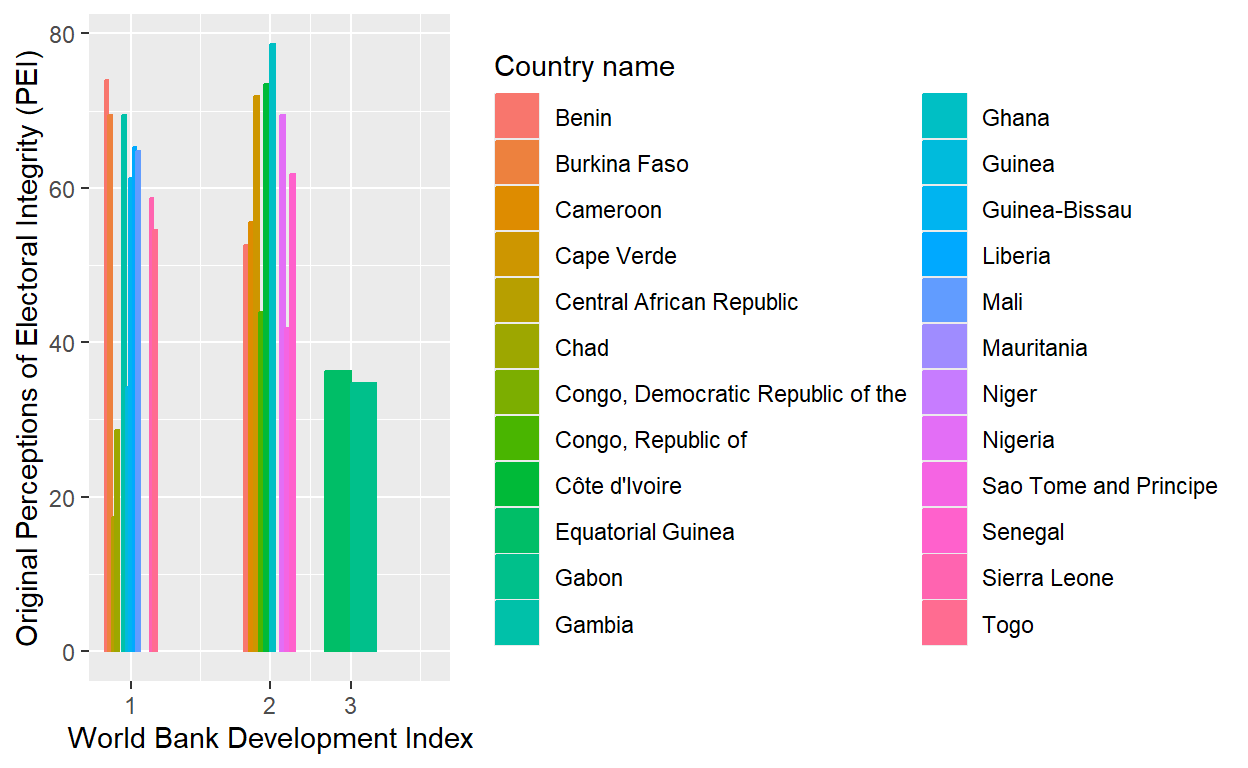
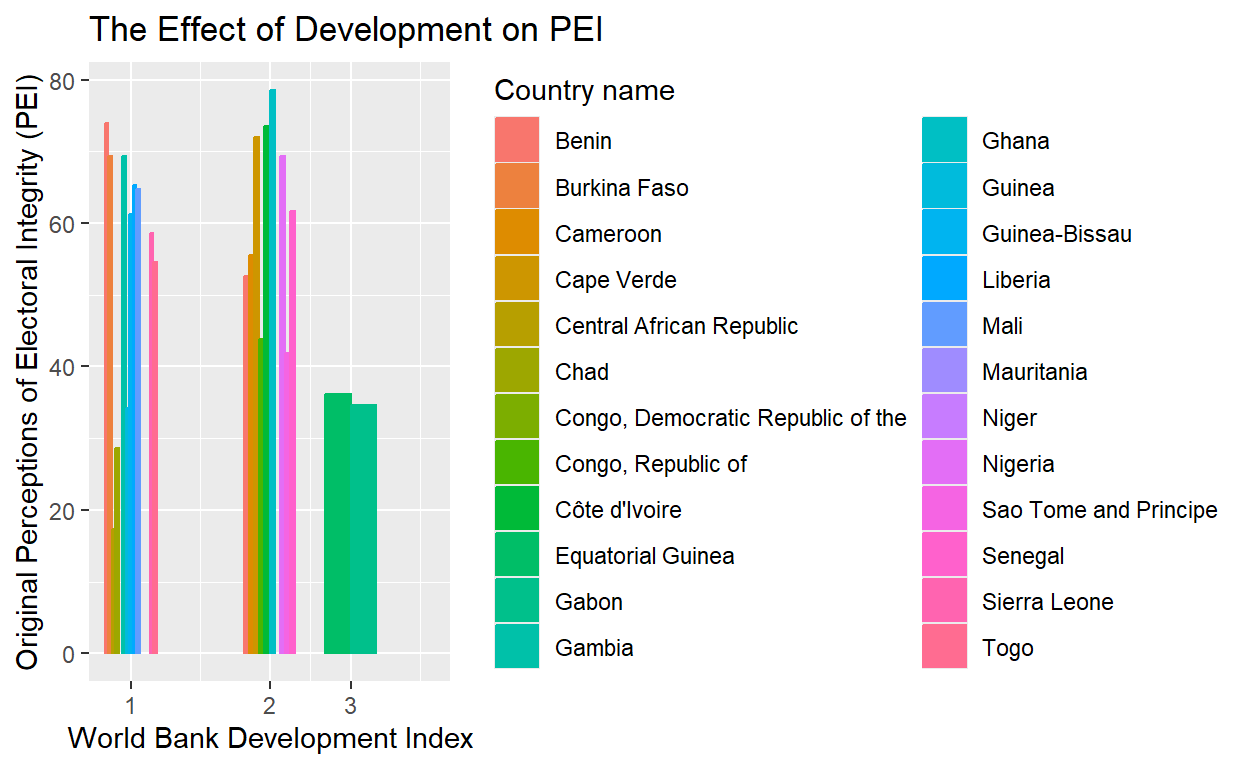
ok

diff --git a/index.html b/index.html
@@ -116,7 +116,7 @@ code span.wa { color: #5e5e5e; font-style: italic; } /* Warning */
   <!--/radix_placeholder_rmarkdown_metadata-->
   
   <script type="text/json" id="radix-resource-manifest">
-  {"type":"character","attributes":{},"value":["Data.dta","dataverse_files.zip","final project data.zip","index_files/figure-html5/unnamed-chunk-3-1.png"]}
+  {"type":"character","attributes":{},"value":["Data.dta","dataverse_files.zip","final project data.zip","index_files/anchor-4.2.2/anchor.min.js","index_files/bowser-1.9.3/bowser.min.js","index_files/distill-2.2.21/template.v2.js","index_files/figure-html5/unnamed-chunk-3-1.png","index_files/header-attrs-2.30/header-attrs.js","index_files/jquery-3.6.0/jquery-3.6.0.js","index_files/jquery-3.6.0/jquery-3.6.0.min.js","index_files/jquery-3.6.0/jquery-3.6.0.min.map","index_files/popper-2.6.0/popper.min.js","index_files/tippy-6.2.7/tippy-bundle.umd.min.js","index_files/tippy-6.2.7/tippy-light-border.css","index_files/tippy-6.2.7/tippy.css","index_files/tippy-6.2.7/tippy.umd.min.js","index_files/webcomponents-2.0.0/webcomponents.js"]}
   </script>
   <!--radix_placeholder_navigation_in_header-->
   <!--/radix_placeholder_navigation_in_header-->
@@ -1591,7 +1591,8 @@ code span.wa { color: #5e5e5e; font-style: italic; } /* Warning */
 <span>  <span class='fu'><a href='https://ggplot2.tidyverse.org/reference/geom_bar.html'>geom_col</a></span><span class='op'>(</span>position <span class='op'>=</span> <span class='st'>"dodge"</span><span class='op'>)</span> <span class='op'>+</span></span>
 <span>  <span class='fu'><a href='https://ggplot2.tidyverse.org/reference/scale_continuous.html'>scale_x_log10</a></span><span class='op'>(</span><span class='op'>)</span> <span class='op'>+</span></span>
 <span>  <span class='fu'><a href='https://ggplot2.tidyverse.org/reference/labs.html'>labs</a></span><span class='op'>(</span>x <span class='op'>=</span> <span class='st'>"World Bank Development Index"</span>,</span>
-<span>       y <span class='op'>=</span> <span class='st'>"Original Perceptions of Electoral Integrity (PEI)"</span><span class='op'>)</span> </span></code></pre>
+<span>       y <span class='op'>=</span> <span class='st'>"Original Perceptions of Electoral Integrity (PEI)"</span></span>
+<span>       , title <span class='op'>=</span> <span class='st'>"The Effect of Development on PEI"</span><span class='op'>)</span> </span></code></pre>
 </div>
 <p><img src="index_files/figure-html5/unnamed-chunk-3-1.png" alt="" width="624" /></p>
 </div>
